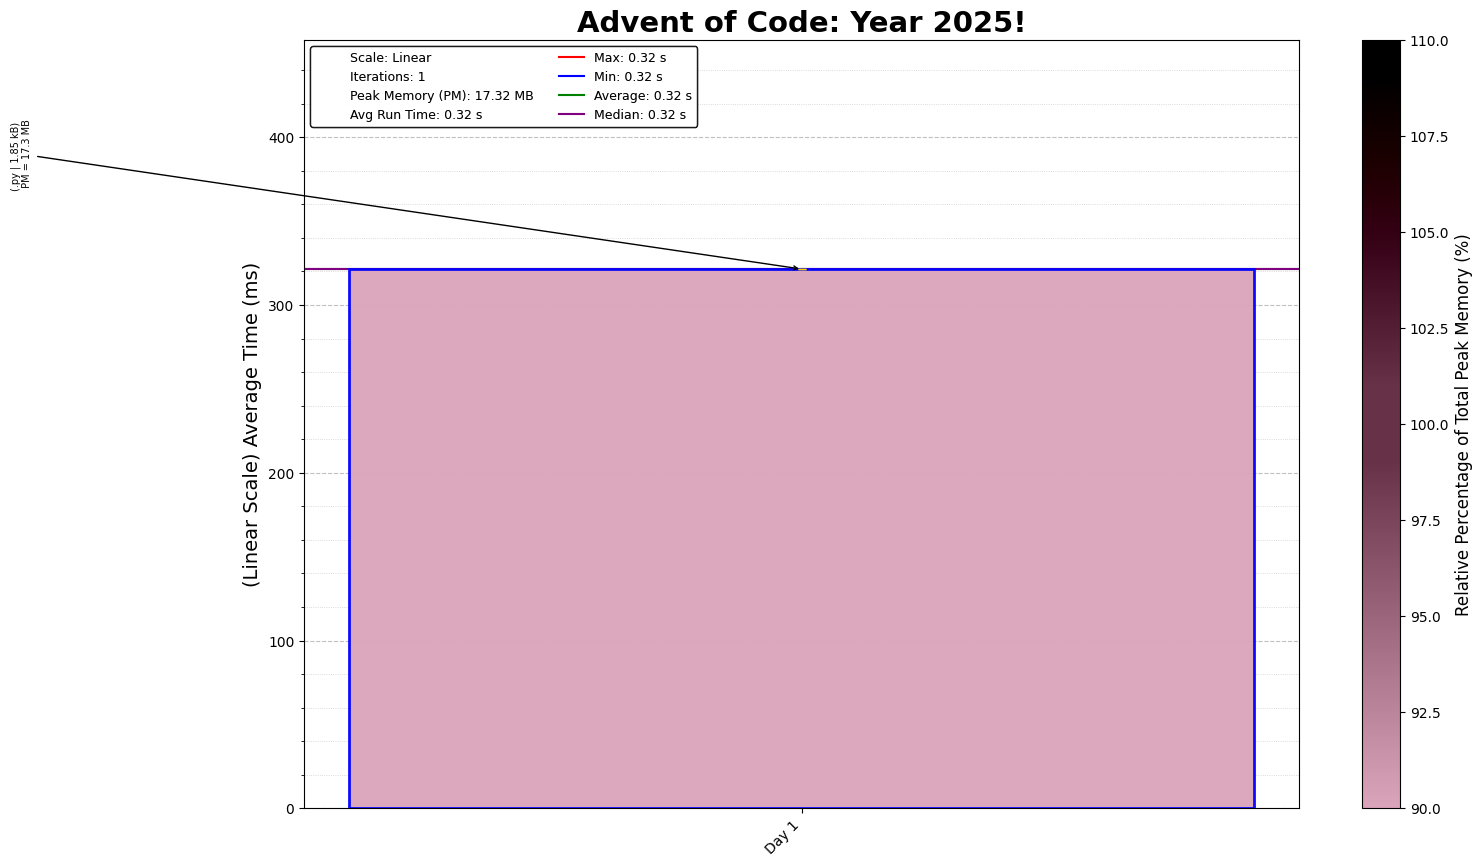
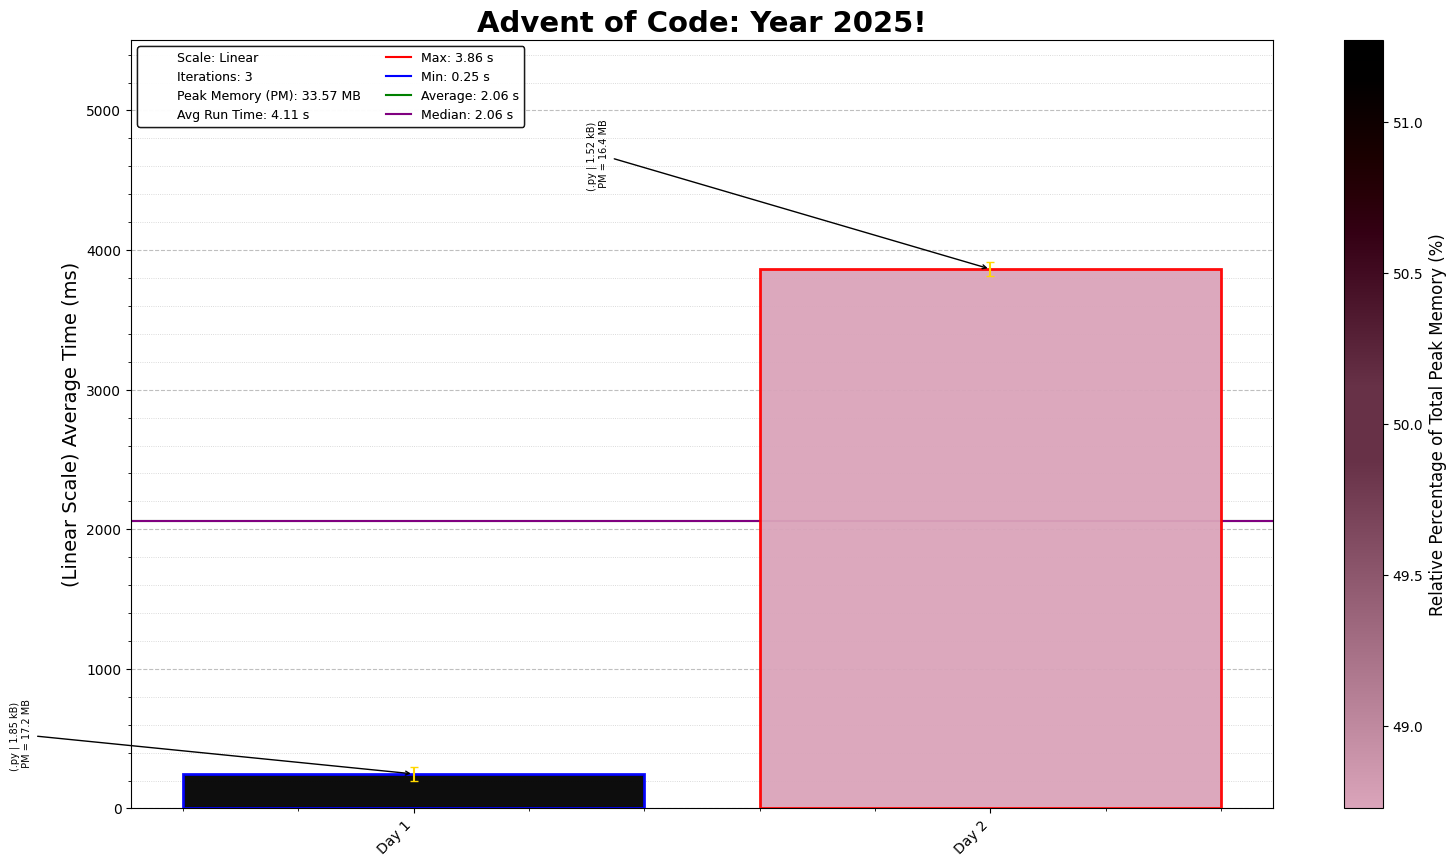
AoC 2025 Day 2: Gift Shop

diff --git a/2025/02/2025Day02.py b/2025/02/2025Day02.py
@@ -1,0 +1,44 @@
+"""Advent of Code - Day 2, Year 2025
+Solution Started: December 2, 2025
+Puzzle Link: https://adventofcode.com/2025/day/2
+Solution by: Abbas Moosajee
+Brief: [Gift Shop]"""
+
+#!/usr/bin/env python3
+from pathlib import Path
+from collections import Counter
+# Load input file
+input_file = "Day02_input.txt"
+input_path = Path(__file__).parent / input_file
+
+with input_path.open("r", encoding="utf-8") as f:
+    data = f.read()
+
+def count_invalid_ids_p1(product_range):
+    invalid_ids = set()
+    for id_range in product_range.split(","):
+        id_start, id_end = id_range.split("-")
+        for test_id in range(int(id_start), int(id_end) + 1):
+            id_str = str(test_id)
+            id_half = len(id_str) // 2
+            if id_str[:id_half] == id_str[id_half:]:
+                invalid_ids.add(test_id)
+                break
+    return sum(invalid_ids)
+
+def count_invalid_ids_p2(product_range):
+    invalid_ids = set()
+    for id_range in product_range.split(","):
+        id_start, id_end = id_range.split("-")
+        for test_id in range(int(id_start), int(id_end) + 1):
+            id_str = str(test_id)
+            id_len = len(id_str)
+            for pattern_len in range(1, id_len):
+                pattern = id_str[:pattern_len]
+                if id_str.count(pattern) * pattern_len == id_len:
+                    invalid_ids.add(test_id)
+                    break
+    return sum(invalid_ids)
+
+print("AoC Day 2, P1:", count_invalid_ids_p1(data))
+print("AoC Day 2, P2:", count_invalid_ids_p2(data))

diff --git a/2025/Run_2025.py b/2025/Run_2025.py
@@ -25,7 +25,7 @@ if __name__ == "__main__":
 
     results = analyzer.analyze(
         problems_to_run= PROBLEMS_TO_RUN,
-        iterations=1,
+        iterations=3,
         save_results=True,
         custom_dir= script_dir / "analysis"
     )

diff --git a/2025/README_2025.md b/2025/README_2025.md
@@ -5,3 +5,4 @@ This repository contains coding solutions for the 2025 Advent of Code.
 ## Day-by-Day Coding Overview
 
 1. **Day 1- Secret Entrance**: *Python* | Basic python code for rotating a list representing a dial, BUT basic is good.
+2. **Day 2 - Gift Shop** *Python* | Identifying and counting invalid ids, but remember duplicating can be avoided using sets.
